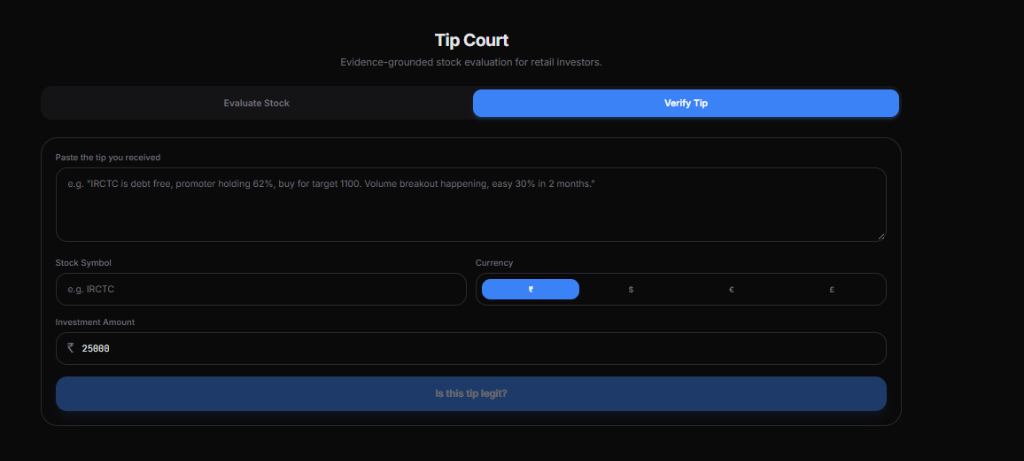
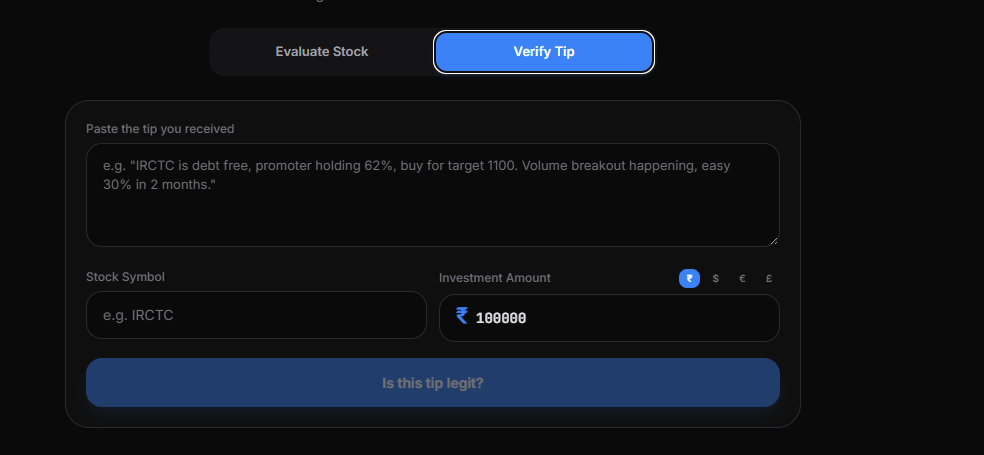
docs: update README with refreshed screenshots for holdings toggle, autocomplete, and courtroom clash

diff --git a/README.md b/README.md
@@ -45,30 +45,37 @@ Tip Court runs every stock tip or ticker query through a simulated adversarial t
 
 ## Interface
 
-### Stock Input
-Input any ticker symbol or paste raw social media tips. Supports currency toggle (INR, USD, EUR, GBP), allocation sizing, and existing shareholdings for hold/sell guidance.
+### Stock & Tip Input
+Supports direct stock evaluation and social media tip verification. Features an intuitive currency switcher (INR, USD, EUR, GBP) and quick allocation presets.
 
-![Stock and Tip Input Interface](docs/screenshots/tip-verification-input.png)
+![Stock Evaluation Input with Currency Switcher](docs/screenshots/stock-evaluation-input.png)
+
+![Social Tip Verification Prompt](docs/screenshots/tip-verification-input.png)
 
 ### Price Feed Autocomplete
-Search equities across NSE, BSE, NASDAQ, and NYSE with real-time price quotes, daily changes, and 1-month SVG sparklines.
+Live autocomplete search across NSE, BSE, NASDAQ, and NYSE equities with real-time price quotes, daily percentage changes, and 1-month SVG sparklines.
 
 ![Live Autocomplete Stock Select Menu with SVG Sparklines](docs/screenshots/stock-search-autocomplete.png)
+
+### Existing Holdings Advice
+Toggle to enter currently owned shares and average purchase price to receive personalized `HOLD`, `BOOK PROFITS`, `ACCUMULATE`, or `CUT LOSS` recommendations.
+
+![Existing Holdings Guidance Toggle](docs/screenshots/holdings-advice-toggle.png)
 
 ### Courtroom Trial
 Parallel specialized agents present opposing evidence. The Prosecutor argues the technical risk case, while the Defence highlights fundamental balance sheet resilience.
 
 ![Courtroom Trial: Prosecutor vs Defence](docs/screenshots/prosecutor-defence-trial.png)
 
-### Evidence Stream
-Every argument carries a verified citation link to BSE/NSE audited filings, Yahoo Finance live data, or Tavily web sentiment.
-
-![Audited Evidence Stream and Source Citations](docs/screenshots/citations-evidence-stream.png)
-
 ### Conflict Resolution
-Surfaces a Split Court alert whenever agents report high opposing confidence, displaying categorized bear, bull, and audit findings.
+Surfaces a Split Court alert whenever agents report high opposing confidence, displaying categorized bear, bull, and audit findings with verified citations.
 
 ![Evidence Analysis and Conflict Resolution](docs/screenshots/courtroom-evidence-clash.png)
+
+### Evidence Stream
+Every finding carries a verified citation link to audited BSE/NSE filings, Yahoo Finance live data, or Tavily web sentiment.
+
+![Audited Evidence Stream and Source Citations](docs/screenshots/citations-evidence-stream.png)
 
 ### Risk Meter
 Displays a 0 to 100 Regret Risk Score gauge, individual agent confidence levels, and a multi-axis risk shape radar chart.
